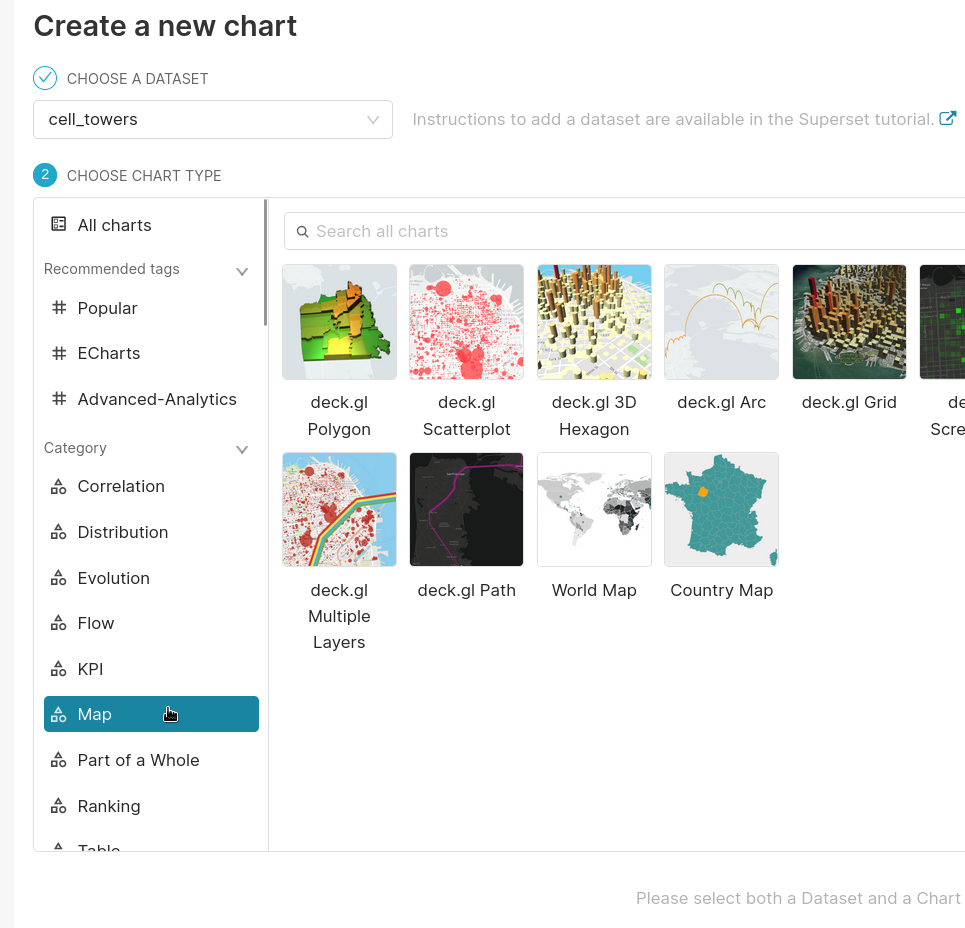
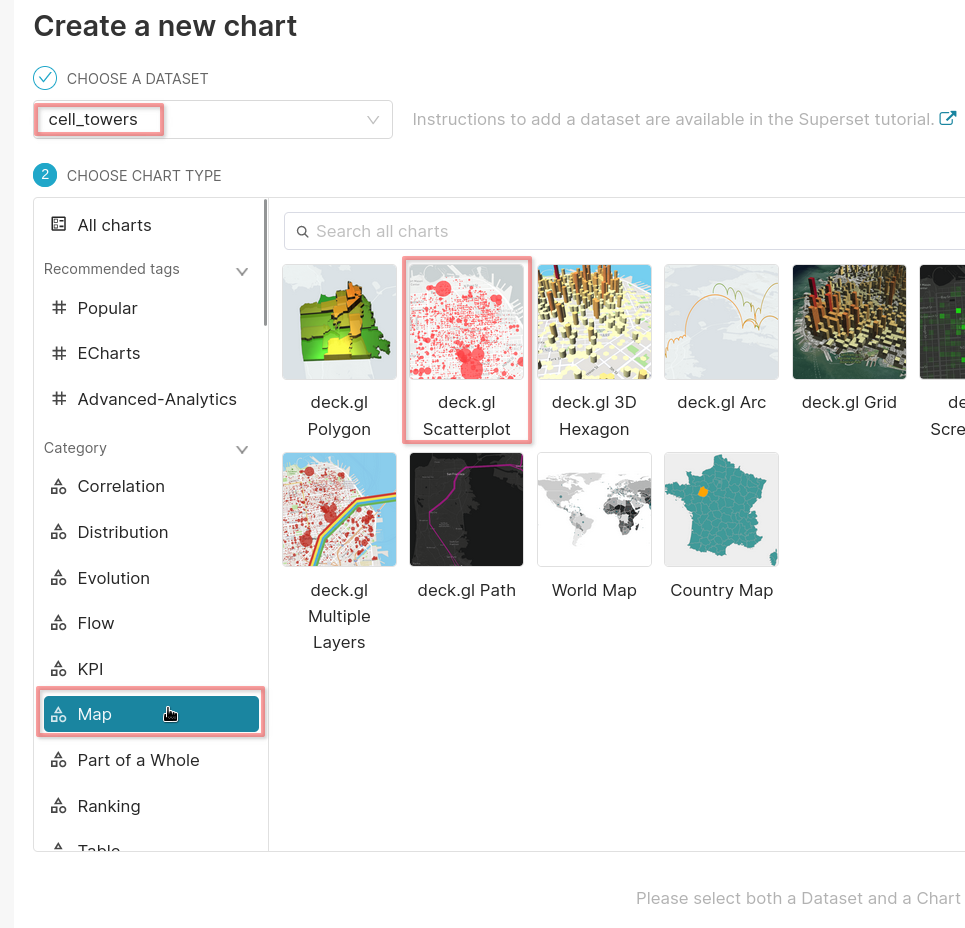
add text, update image

Changed region(s): [[0.4041, 0.25, 0.5596, 0.5], [0.0311, 0.7188, 0.2798, 0.8125], [0.0311, 0.0938, 0.1865, 0.1562]]

diff --git a/docs/en/getting-started/example-datasets/cell-towers.md b/docs/en/getting-started/example-datasets/cell-towers.md
@@ -4,6 +4,7 @@ sidebar_label: Cell Towers
 sidebar_position: 3
 title: "Cell Towers"
 ---
+import ConnectionDetails from '@site/docs/en/_snippets/_gather_your_details_http.mdx';
 
 import Tabs from '@theme/Tabs';
 import TabItem from '@theme/TabItem';
@@ -15,11 +16,11 @@ import SupersetDocker from '@site/docs/en/_snippets/_add_superset_detail.md';
 ## Goal
 
 In this guide you will learn how to:
-- load the OpenCelliD data in Clickhouse
-- connect Apache Superset to ClickHouse
-- build a dashboard based on data available in the dataset
-- how to choose data types for your table fields
-- how to choose a primary key
+- Load the OpenCelliD data in Clickhouse
+- Connect Apache Superset to ClickHouse
+- Build a dashboard based on data available in the dataset
+- Choose data types for your table fields
+- Choose a primary key
 
 Here is a preview of the dashboard created in this guide:
 
@@ -49,6 +50,26 @@ DESCRIBE TABLE cell_towers
 ```
 
 <SQLConsoleDetail />
+
+This is the output of `DESCRIBE`.  Down further in this guide the field type choices will be described.
+```response
+┌─name──────────┬─type──────────────────────────────────────────────────────────────────┬
+│ radio         │ Enum8('' = 0, 'CDMA' = 1, 'GSM' = 2, 'LTE' = 3, 'NR' = 4, 'UMTS' = 5) │
+│ mcc           │ UInt16                                                                │
+│ net           │ UInt16                                                                │
+│ area          │ UInt16                                                                │
+│ cell          │ UInt64                                                                │
+│ unit          │ Int16                                                                 │
+│ lon           │ Float64                                                               │
+│ lat           │ Float64                                                               │
+│ range         │ UInt32                                                                │
+│ samples       │ UInt32                                                                │
+│ changeable    │ UInt8                                                                 │
+│ created       │ DateTime                                                              │
+│ updated       │ DateTime                                                              │
+│ averageSignal │ UInt8                                                                 │
+└───────────────┴───────────────────────────────────────────────────────────────────────┴
+```
 
 </TabItem>
 <TabItem value="selfmanaged" label="Self-managed">
@@ -251,8 +272,15 @@ Here is a description of the columns taken from the OpenCelliD forum:
 | lat          | Latitude: With Longitude, approximate tower location   |
 
 :::tip mcc
-To find your MCC check [Mobile network codes](https://en.wikipedia.org/wiki/Mobile_country_code), and use the first three digits in the `MCC / MNC` column.
+To find your MCC check [Mobile network codes](https://en.wikipedia.org/wiki/Mobile_country_code), and use the three digits in the **Mobile country code** column.
 :::
+
+The schema for this table was designed for compact storage on disk and query speed.  
+- The `radio` data is stored as an `Enum8` (`UInt8`) rather than a string.
+- `mcc` or Mobile country code, is stored as a `UInt16` as we know the range is 1 - 999.
+- `lon` and `lat` are `Float64`.
+
+None of the other fields are used in the queries or visualizations in this guide, but they are described in the forum linked above if you are interested.
 
 ## Build visualizations with Apache Superset
 
@@ -270,9 +298,14 @@ To build a Superset dashboard using the OpenCelliD dataset you should:
 
 1. Add your ClickHouse service as a Superset **database**
 
-In Superset a database can be added by choosing the database type, and then providing the connection details.
+## 1. Gather your connection details
+<ConnectionDetails />
+
+  In Superset a database can be added by choosing the database type, and then providing the connection details.
 
 ![Add a database](@site/docs/en/getting-started/example-datasets/images/superset-add.png)
+
+  Choose **ClickHouse Connect** from the list:
 
 ![Choose clickhouse connect as database type](@site/docs/en/getting-started/example-datasets/images/superset-choose-a-database.png)
 
@@ -280,27 +313,41 @@ In Superset a database can be added by choosing the database type, and then prov
 
 Add your connection details:
 
+:::tip
+  Make sure that you set **SSL** on when connecting to ClickHouse Cloud or other ClickHouse systems that enforce the use of SSL.
+:::
+
 ![Add ClickHouse as a Superset datasource](@site/docs/en/getting-started/example-datasets/images/superset-connect-a-database.png)
 
 1. Add the table **cell_towers** as a Superset **dataset**
 
-In Superset a **dataset** maps to a table within a database.  Click on add a dataset and choose your ClickHouse service, the database containing your table (`default`), and choose the `cell_towers` table:
+  In Superset a **dataset** maps to a table within a database.  Click on add a dataset and choose your ClickHouse service, the database containing your table (`default`), and choose the `cell_towers` table:
 
 ![Add cell_towers table as a dataset](@site/docs/en/getting-started/example-datasets/images/superset-add-dataset.png)
 
-foo
+1. Create a new **Chart**
+
+When you choose to add a chart in Superset you have to specify the dataset (`cell_towers`) and the chart type.  Since the OpenCelliD dataset provides longitude and latitude coordinates for cell towers we will create a **Map** chart.  The **deck.gL Scatterplot** type is suited to this dataset as it works well with dense datapoints on a map.
 
 ![Create a map in Superset](@site/docs/en/getting-started/example-datasets/images/superset-create-map.png)
 
-1. Create some **charts**
+1. Specify the query used for the map
+
+A deck.gl Scatterplot requires a longitude and latitude, and one or more filters can also be applied to the query.  In this example two filters are applied, one for cell towers with UMTS radios, and one for the Mobile country code assigned to The Netherlands.
+
+The fields `lon` and `lat` contain the longitude and latitude:
 
 ![Specify longitude and latitude fields](@site/docs/en/getting-started/example-datasets/images/superset-lon-lat.png)
 
 1. Add the charts to a **dashboard**
 
+Add a filter with `mcc` = `204` (or substitute any other `mcc` value):
+
 ![Filter on MCC 204](@site/docs/en/getting-started/example-datasets/images/superset-mcc-204.png)
 
 1. foo
+
+Add a filter with `radio` = `'UMTS'` (or substitute any other `radio` value, you can see the choices in the output of `DESCRIBE TABLE cell_towers`):
 
 ![Filter on radio = UMTS](@site/docs/en/getting-started/example-datasets/images/superset-radio-umts.png)
 
@@ -308,10 +355,12 @@ This is the full comfiguration for the chart that filters on `radio = 'UMTS'` an
 
 ![Chart for UMTS radios in MCC 204](@site/docs/en/getting-started/example-datasets/images/superset-umts-netherlands.png)
 
-1. foo
+Click on **UPDATE CHART** to render the visualization.
+
+1. This screenshot shows cell tower locations with LTE, UMTS, and GSM radios.  The charts are all created in the same way and they are added to a dashboard.
 
 ![Dashboard of cell towers by radio type in mcc 204](@site/docs/en/getting-started/example-datasets/images/superset-cell-tower-dashboard.png)
 
 The data is also available for interactive queries in the [Playground](https://play.clickhouse.com/play?user=play), [example](https://play.clickhouse.com/play?user=play#U0VMRUNUIG1jYywgY291bnQoKSBGUk9NIGNlbGxfdG93ZXJzIEdST1VQIEJZIG1jYyBPUkRFUiBCWSBjb3VudCgpIERFU0M=).
 
-Although you cannot create temporary tables there.
+Although you cannot create tables there.
